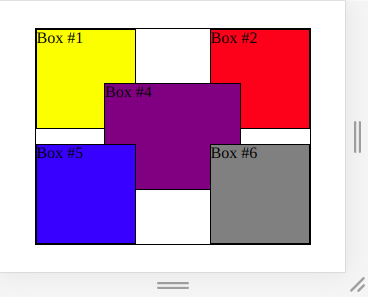
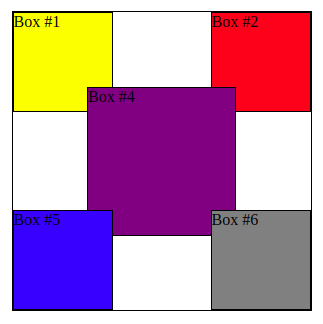
Updated z-index intro exercise

diff --git a/02-html-css/exercises/positioning/solutions/exercise-10-z-index-intropro.html b/02-html-css/exercises/positioning/solutions/exercise-10-z-index-intropro.html
@@ -5,9 +5,9 @@
   <meta charset="UTF-8">
   <meta name="viewport" content="width=device-width, initial-scale=1.0">
   <meta http-equiv="X-UA-Compatible" content="ie=edge">
-  <title>Exercise Positioning - Z-Index #1</title>
+  <title>Exercise Positioning - Z-Index #1 (Advanced)</title>
   <style>
-    
+
     * {
       box-sizing: border-box;
     }
@@ -29,6 +29,7 @@
       width: 100px;
       height: 100px;
       border: 1px solid;
+      box-shadow: 10px 10px 0px 0 rgba(0, 0, 0, 0.5);
     }
 
     #div1 {
@@ -48,36 +49,48 @@
       left: 25%;
       width: 50%;
       height: 50%;
+      z-index: 1;
+      /*this is necessary to "protect" the children 
+        which have a negative z-index to go below all other boxes */
     }
 
     #div3 {
       position: absolute;
-      top: 0px;
-      left: 0px;
-      bottom: 0px;
-      right: 0px;
+      /* place the parent 20px inwards to create some empty frame around. 
+      This frame could be filled by the child*/
+      top: 20px;
+      left: 20px;
+      bottom: 20px;
+      right: 20px;
       background: green;
     }
 
     #div4 {
       position: absolute;
-      top: 0px;
-      left: 0px;
-      right: 0px;
-      bottom: 0px;
+      /* let the child extend its parent by 20px. This way it can fill in the gap */
+      top: -20px;
+      left: -20px;
+      right: -20px;
+      bottom: -20px;
       background: purple;
+      z-index: -1;
+      /* move box below the green div3, so we can see it */
     }
 
     #div5 {
       bottom: 0;
       left: 0;
       background: blue;
+      z-index: -1;
+      /* keep box below sub-container */
     }
 
     #div6 {
       bottom: 0;
       right: 0;
       background: grey;
+      z-index: -1;      
+      /* keep box below sub-container */
     }
 
   </style>
@@ -88,19 +101,11 @@
   <div class="container">
     <div id="div1">Box #1</div>
     <div id="div2">Box #2</div>
-    
-    <!--
-      Please keep in mind, that putting a z-index on a parent 
-      causes that children can not go behind the parent anymore.
-      They get locked into the parent.
-      So find the right way to bring box #4 on top of box #3
-    -->
     <div id="sub-container">
       <div id="div3">Box #3
         <div id="div4">Box #4</div>
       </div>
     </div>
-    
     <div id="div5">Box #5</div>
     <div id="div6">Box #6</div>
   </div>

diff --git a/02-html-css/exercises/positioning/solutions/exercise-10-z-index-intro.html b/02-html-css/exercises/positioning/solutions/exercise-10-z-index-intro.html
@@ -17,8 +17,8 @@
     }
 
     .container {
-      width: 80vw;
-      height: 80vh;
+      width: 300px;
+      height: 300px;
       margin: 10vh 10vw;
       border: 1px solid;
       position: relative;
@@ -49,32 +49,27 @@
       left: 25%;
       width: 50%;
       height: 50%;
-      z-index: 1;
-      /*this is necessary to "protect" the children 
-        which have a negative z-index to go below all other boxes */
     }
 
     #div3 {
       position: absolute;
-      /* place the parent 20px inwards to create some empty frame around. 
-      This frame could be filled by the child*/
-      top: 20px;
-      left: 20px;
-      bottom: 20px;
-      right: 20px;
+      top: 0;
+      left: 0;
+      bottom: 0;
+      right: 0;
       background: green;
     }
 
     #div4 {
       position: absolute;
       /* let the child extend its parent by 20px. This way it can fill in the gap */
-      top: -20px;
-      left: -20px;
-      right: -20px;
-      bottom: -20px;
       background: purple;
+      top: 0;
+      left: 0;
+      right: 0;
+      bottom: 0;
       z-index: -1;
-      /* move box below the green div3, so we can see it */
+      /* move box below the green div3, so we can see th parent */
     }
 
     #div5 {
@@ -82,7 +77,7 @@
       left: 0;
       background: blue;
       z-index: -1;
-      /* keep box below sub-container */
+      /* keep this box below the sub-container */
     }
 
     #div6 {
@@ -90,7 +85,7 @@
       right: 0;
       background: grey;
       z-index: -1;      
-      /* keep box below sub-container */
+      /* keep this box below the sub-container */
     }
 
   </style>

diff --git a/02-html-css/exercises/positioning/exercise-10-z-index-intro/README.md b/02-html-css/exercises/positioning/exercise-10-z-index-intro/README.md
@@ -1,18 +1,25 @@
 # Exercise Positioning - Z-Index #1
 
-Find attached the given html file.
+Open the given html file in the browser.
 
 It currently shows a layering of boxes like this:
 
 ![From](from.png)
 
-It should get updated to this layering of boxes:
+The green Box 3 is here totally hidden by its child Box 4.
 
-![To](result.png)
+We now want to get to this layering of boxes:
+
+![To-Intro](result-intro.png)
 
 The main differences to realize in the result:
 
 - the boxes have shadows (not blurred)
 - the sub-container box (containing the boxes 3 and 4) needs to be on top of all other boxes
-- the hidden box 3 (green) needs to be placed on top of box 4. The green frame around should be 20px (don't use percentages).
+- the hidden box 3 (green) needs to be placed on top of its child box 4 (by default the child goes on top of its parent)
 
+Advanced Task (not mandatory):
+
+Make the purple child box extend the boundaries of its parent by 20px like seen in the image below. The green box shrinks accordingly by 20px.
+
+![To](result.png)
